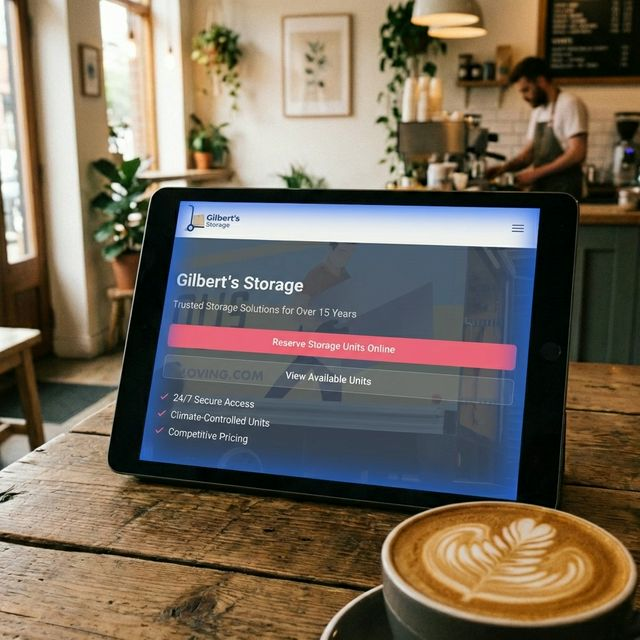
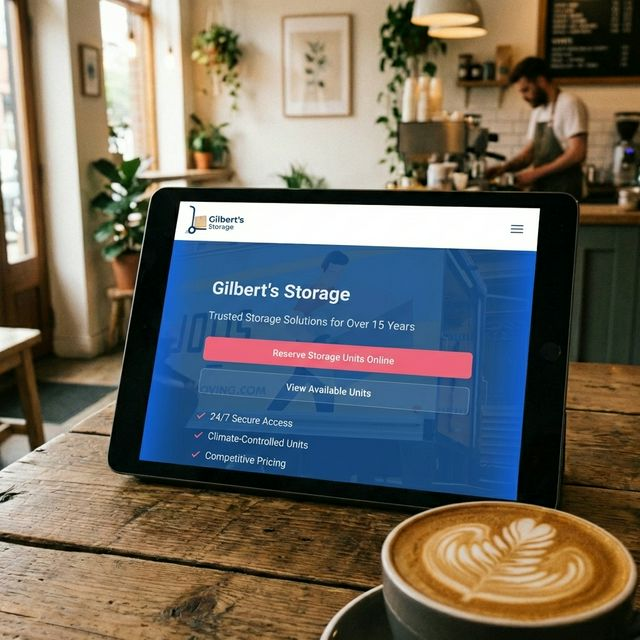
Update site: new pricing/sale, CTA changes, contact info, and refined mockup

Changed region(s): [[0.2188, 0.3125, 0.8438, 0.7812]]

diff --git a/index.html b/index.html
@@ -37,7 +37,7 @@
         </nav>
 
         <div class="header-actions">
-          <a href="#contact" class="btn btn-primary">Get a Free Demo</a>
+          <a href="contact.html" class="btn btn-primary">Start Your Project</a>
         </div>
 
         <!-- Mobile Menu Toggle -->
@@ -53,7 +53,7 @@
             <a href="#work" class="mobile-link">Work</a>
             <a href="#process" class="mobile-link">Process</a>
             <a href="#pricing" class="mobile-link">Pricing</a>
-            <a href="#contact" class="mobile-link btn btn-primary">Get a Free Demo</a>
+            <a href="contact.html" class="mobile-link btn btn-primary">Start Your Project</a>
           </nav>
         </div>
       </div>
@@ -70,7 +70,7 @@
               Clean design. Modern builds. Real results.</p>
             <div class="hero-buttons delay-200">
               <a href="#work" class="btn btn-primary">View Work</a>
-              <a href="#contact" class="btn btn-secondary">Get a Free Demo</a>
+              <a href="contact.html" class="btn btn-secondary">Start Your Project</a>
             </div>
           </div>
           <div class="hero-visual animate-on-scroll delay-300">
@@ -148,27 +148,9 @@
                 <p>Real Estate • Modern Hero Design</p>
               </div>
             </div>
-            <!-- Work Item 1 -->
-            <div class="work-card animate-on-scroll delay-100">
-              <div class="work-img-wrapper">
-                <img src="portfolio-mockup.png" alt="Reveille Portfolio Project" class="work-img">
-              </div>
-              <div class="work-info">
-                <h4>Reveille Portfolio</h4>
-                <p>Student Portfolio • 300% Engagement Increase</p>
-              </div>
-            </div>
 
-            <!-- Work Item 2 -->
-            <div class="work-card animate-on-scroll delay-200">
-              <div class="work-img-wrapper">
-                <img src="cafe-mockup.png" alt="Century Square Cafe Project" class="work-img">
-              </div>
-              <div class="work-info">
-                <h4>Century Square Cafe</h4>
-                <p>Local Business • Online Ordering Integration</p>
-              </div>
-            </div>
+
+
           </div>
         </div>
       </section>
@@ -442,11 +424,38 @@
       <section id="pricing" class="section pricing-section">
         <div class="container">
           <h2 class="heading-2 text-center">Simple Pricing</h2>
+          <div class="sale-banner animate-on-scroll">
+            <span class="sale-text">Spring Sale Ends In:</span>
+            <div class="countdown-timer" id="countdown">
+              <div class="time-block">
+                <span class="time" id="days">00</span>
+                <span class="label">Days</span>
+              </div>
+              <span class="separator">:</span>
+              <div class="time-block">
+                <span class="time" id="hours">00</span>
+                <span class="label">Hrs</span>
+              </div>
+              <span class="separator">:</span>
+              <div class="time-block">
+                <span class="time" id="minutes">00</span>
+                <span class="label">Mins</span>
+              </div>
+              <span class="separator">:</span>
+              <div class="time-block">
+                <span class="time" id="seconds">00</span>
+                <span class="label">Secs</span>
+              </div>
+            </div>
+          </div>
           <div class="pricing-grid">
             <!-- Tier 1 -->
             <div class="card pricing-card animate-on-scroll delay-100">
               <h3>Starter</h3>
-              <p class="price">$499</p>
+              <div class="price-wrapper">
+                <span class="original-price">$499</span>
+                <p class="price sale-price">$249</p>
+              </div>
               <p class="desc">Perfect for student portfolios</p>
               <ul class="features">
                 <li>Custom Design</li>
@@ -460,7 +469,10 @@
             <div class="card pricing-card featured animate-on-scroll delay-200">
               <div class="badge-pop">Most Popular</div>
               <h3>Growth</h3>
-              <p class="price">$1,200</p>
+              <div class="price-wrapper">
+                <span class="original-price">$1,200</span>
+                <p class="price sale-price">$599</p>
+              </div>
               <p class="desc">For serious businesses</p>
               <ul class="features">
                 <li>5-7 Pages</li>
@@ -542,7 +554,7 @@
       <section class="cta-band">
         <div class="container cta-content">
           <h2 class="heading-2" style="color: var(--color-bg);">Want a stunning website without the headache?</h2>
-          <a href="contact.html" class="btn btn-primary">Get a Free Demo</a>
+          <a href="contact.html" class="btn btn-primary">Start Your Project</a>
         </div>
       </section>
     </main>

diff --git a/contact.html b/contact.html
@@ -29,7 +29,7 @@
                 <a href="index.html#pricing">Pricing</a>
             </nav>
             <div class="header-actions">
-                <a href="#" class="btn btn-primary">Get a Free Demo</a>
+                <a href="contact.html" class="btn btn-primary">Start Your Project</a>
             </div>
         </div>
     </header>
@@ -61,42 +61,25 @@
                         </p>
                     </div>
 
-                    <!-- Contact Form -->
                     <div style="grid-column: span 12;" class="form-col">
-                        <form class="card" style="padding: 40px;">
-                            <div class="input-group">
-                                <label class="input-label">Name</label>
-                                <input type="text" class="input-field" placeholder="Howdy Ag">
+                        <div class="card" style="padding: 40px; text-align: center;">
+                            <h3 class="heading-3">Contact Us Directly</h3>
+                            <p style="margin-bottom: 32px; color: var(--color-text);">Feel free to reach out via email
+                                or phone for any inquiries.</p>
+
+                            <div style="margin-bottom: 24px;">
+                                <div class="icon-box" style="margin-bottom: 12px; font-size: 1.5rem;">📧</div>
+                                <h4 style="font-weight: 600; margin-bottom: 4px; color: var(--color-dark);">Email</h4>
+                                <a href="mailto:portfoliodesigns.studio@gmail.com" class="btn-text"
+                                    style="font-size: 1.1rem;">portfoliodesigns.studio@gmail.com</a>
                             </div>
-                            <div class="input-group">
-                                <label class="input-label">Email</label>
-                                <input type="email" class="input-field" placeholder="name@tamu.edu">
+
+                            <div>
+                                <div class="icon-box" style="margin-bottom: 12px; font-size: 1.5rem;">📱</div>
+                                <h4 style="font-weight: 600; margin-bottom: 4px; color: var(--color-dark);">Phone</h4>
+                                <a href="tel:8326630077" class="btn-text" style="font-size: 1.1rem;">(832) 663-0077</a>
                             </div>
-                            <div class="input-group">
-                                <label class="input-label">Project Type</label>
-                                <select class="input-field">
-                                    <option>Portfolio Website</option>
-                                    <option>Business Website</option>
-                                    <option>Redesign</option>
-                                    <option>Other</option>
-                                </select>
-                            </div>
-                            <div class="input-group">
-                                <label class="input-label">Budget Range</label>
-                                <select class="input-field">
-                                    <option>$500 - $1,000</option>
-                                    <option>$1,000 - $3,000</option>
-                                    <option>$3,000+</option>
-                                </select>
-                            </div>
-                            <div class="input-group">
-                                <label class="input-label">Message</label>
-                                <textarea class="input-field" rows="4"
-                                    placeholder="Tell us about your project..."></textarea>
-                            </div>
-                            <button type="submit" class="btn btn-primary full-width" style="margin-top: 16px;">Send
-                                Message</button>
-                        </form>
+                        </div>
                     </div>
                 </div>
             </div>

diff --git a/main.js b/main.js
@@ -74,3 +74,60 @@ document.addEventListener('DOMContentLoaded', () => {
         });
     });
 });
+
+/* Countdown Timer Logic */
+/* Countdown Timer Logic */
+// Check for existing deadline in localStorage
+let deadlineStr = localStorage.getItem('saleDeadline');
+let deadline;
+
+if (deadlineStr) {
+    deadline = new Date(deadlineStr);
+    // If deadline passed, reset it for a new visitor experience or keep it at 0
+    if (deadline < new Date()) {
+        deadline = new Date();
+        deadline.setDate(deadline.getDate() + 3);
+        localStorage.setItem('saleDeadline', deadline.toISOString());
+    }
+} else {
+    deadline = new Date();
+    deadline.setDate(deadline.getDate() + 3); // 3 days from first visit
+    localStorage.setItem('saleDeadline', deadline.toISOString());
+}
+
+function updateCountdown() {
+    const now = new Date();
+    const diff = deadline - now;
+
+    if (diff <= 0) {
+        // Timer expired
+        const dEl = document.getElementById('days');
+        if (dEl) {
+            document.getElementById('days').innerText = '00';
+            document.getElementById('hours').innerText = '00';
+            document.getElementById('minutes').innerText = '00';
+        }
+        return;
+    }
+
+    const days = Math.floor(diff / (1000 * 60 * 60 * 24));
+    const hours = Math.floor((diff % (1000 * 60 * 60 * 24)) / (1000 * 60 * 60));
+    const minutes = Math.floor((diff % (1000 * 60 * 60)) / (1000 * 60));
+    const seconds = Math.floor((diff % (1000 * 60)) / 1000);
+
+    const dEl = document.getElementById('days');
+    const hEl = document.getElementById('hours');
+    const mEl = document.getElementById('minutes');
+    const sEl = document.getElementById('seconds');
+
+    if (dEl && hEl && mEl && sEl) {
+        dEl.innerText = days < 10 ? '0' + days : days;
+        hEl.innerText = hours < 10 ? '0' + hours : hours;
+        mEl.innerText = minutes < 10 ? '0' + minutes : minutes;
+        sEl.innerText = seconds < 10 ? '0' + seconds : seconds;
+    }
+}
+
+// Run immediately and then every second to show it's working (even if we only show minutes)
+updateCountdown();
+setInterval(updateCountdown, 1000);

diff --git a/style.css b/style.css
@@ -694,8 +694,95 @@ ul {
     padding-top: 24px;
     border-top: 1px solid rgba(175, 162, 143, 0.1);
 }
+
 /* API Quota Workaround: Color correction for iPad mockup blue hue */
 img[src*="gilberts-ipad-mockup.png"] {
     filter: sepia(0.15) saturate(1.1) hue-rotate(-5deg) contrast(1.05);
 }
+/* Spring Sale & Countdown */
+.sale-banner {
+  background: var(--color-primary);
+  color: white;
+  padding: 16px 24px;
+  border-radius: 12px;
+  display: inline-flex;
+  align-items: center;
+  justify-content: center;
+  gap: 24px;
+  margin: 0 auto 48px;
+  box-shadow: 0 4px 20px rgba(80, 0, 0, 0.2);
+  width: fit-content;
+  position: relative;
+  left: 50%;
+  transform: translateX(-50%);
+  flex-wrap: wrap;
+}
 
+.sale-text {
+  font-weight: 700;
+  text-transform: uppercase;
+  letter-spacing: 1px;
+  font-size: 1.1rem;
+}
+
+.countdown-timer {
+  display: flex;
+  align-items: center;
+  gap: 8px;
+}
+
+.time-block {
+  display: flex;
+  flex-direction: column;
+  align-items: center;
+  min-width: 40px;
+}
+
+.time-block .time {
+  font-weight: 800;
+  font-size: 1.5rem;
+  line-height: 1;
+}
+
+.time-block .label {
+  font-size: 0.7rem;
+  opacity: 0.9;
+  text-transform: uppercase;
+  margin-top: 4px;
+}
+
+.countdown-timer .separator {
+  font-weight: 700;
+  font-size: 1.5rem;
+  margin-top: -14px; /* Align with numbers visually */
+}
+
+/* Sale Pricing */
+.price-wrapper {
+  display: flex;
+  flex-direction: column;
+  align-items: flex-start;
+  margin-bottom: 8px;
+}
+
+.original-price {
+  text-decoration: line-through;
+  color: var(--color-text);
+  font-size: 1.2rem;
+  font-weight: 500;
+  opacity: 0.7;
+}
+
+.sale-price {
+  color: var(--color-primary);
+  margin-top: -4px;
+}
+
+@media (max-width: 768px) {
+  .sale-banner {
+    flex-direction: column;
+    gap: 12px;
+    width: 100%;
+    padding: 20px;
+  }
+}

diff --git a/work.html b/work.html
@@ -27,7 +27,7 @@
                 <a href="index.html#pricing">Pricing</a>
             </nav>
             <div class="header-actions">
-                <a href="contact.html" class="btn btn-primary">Get a Free Demo</a>
+                <a href="contact.html" class="btn btn-primary">Start Your Project</a>
             </div>
         </div>
     </header>
